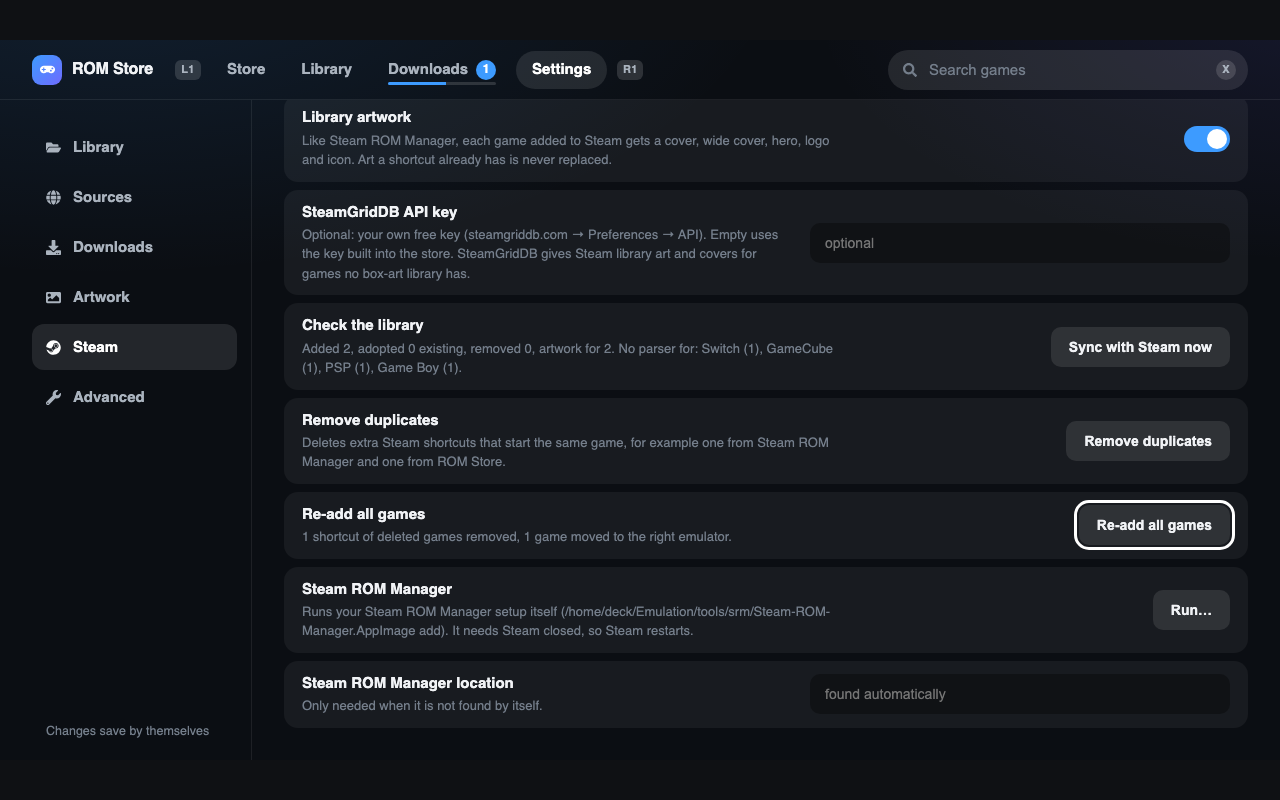
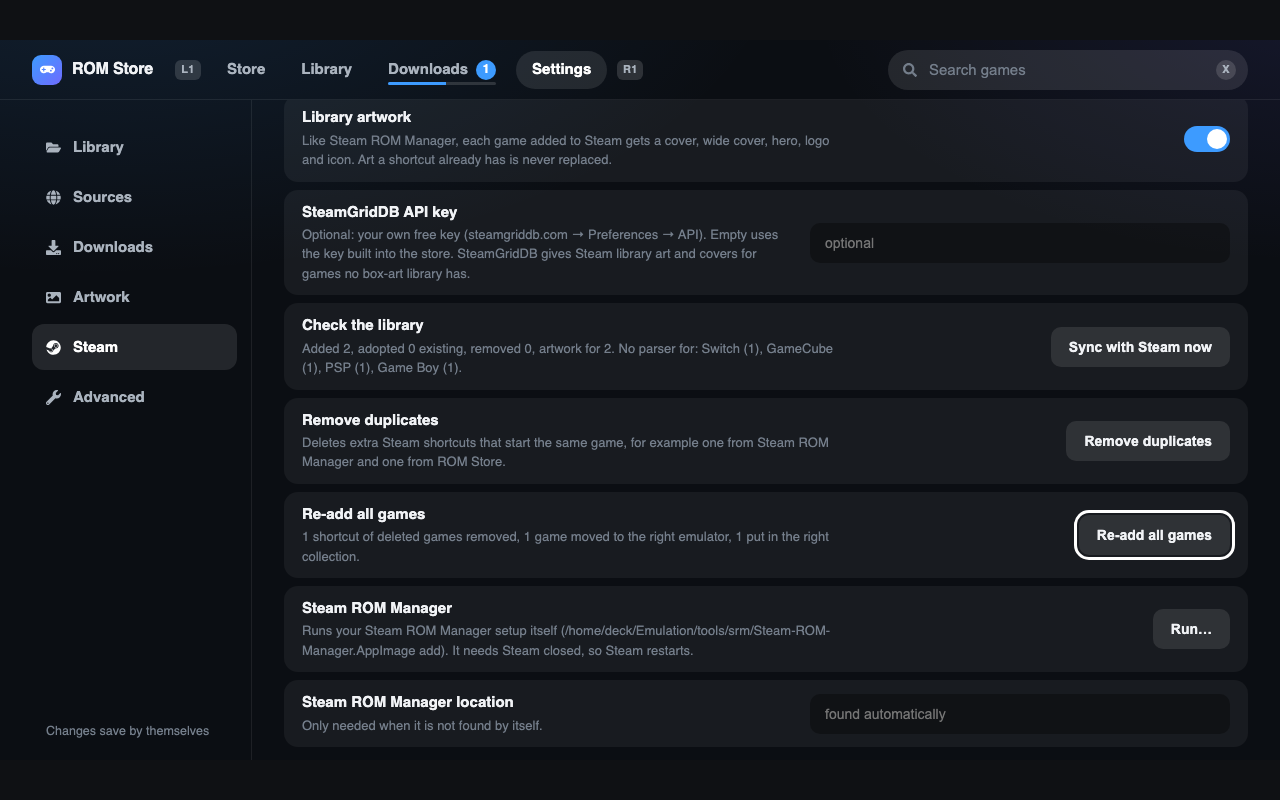
Steam: keep every managed game in its parser's collection (adopted, kept and moved ones too)

diff --git a/src/steam.ts b/src/steam.ts
@@ -36,6 +36,8 @@ export interface SyncResult {
   duplicates: number;
   /** Shortcuts of games no longer on disk that were deleted ("Re-add all"). */
   stale: string[];
+  /** Existing shortcuts moved into their parser's Steam collection. */
+  collections: string[];
   /** Games that got library artwork in this run. */
   artwork: string[];
   /** E.g. a SteamGridDB key that was turned down (IGDB art was used). */
@@ -157,23 +159,55 @@ function romPaths(s: ShortcutInfo, roots: string[]): string[] {
   return found;
 }
 
-/** Best effort: Steam's collection store is internal and changes between builds. */
-async function addToCollection(name: string, appid: number): Promise<void> {
+function collectionHas(collection: any, appid: number): boolean {
+  try {
+    if (typeof collection?.apps?.has === "function") return Boolean(collection.apps.has(appid));
+    const list = collection?.allApps ?? collection?.apps;
+    if (Array.isArray(list)) return list.some((app: any) => (app?.appid ?? app) === appid);
+  } catch {
+    /* unknown shape: treat as not in it */
+  }
+  return false;
+}
+
+/**
+ * Put a game in its parser's Steam collection and take it out of the other
+ * parsers' collections (`managed`: every collection SRM's parsers name), so a
+ * game moved to another emulator, or a shortcut adopted from SRM, ends up in
+ * the right one. Collections the user made are never touched. Best effort:
+ * Steam's collection store is internal and changes between builds.
+ * Returns true when something changed.
+ */
+async function placeInCollection(appid: number, target: string | null, managed: string[]): Promise<boolean> {
   try {
     const collections = store("collectionStore");
     const overview = store("appStore")?.GetAppOverviewByAppID(appid);
-    if (!collections || !overview) return;
-    const existing = (collections.userCollections ?? []).find((c: any) => c?.displayName === name);
-    if (existing) {
-      const editable = existing.AsDragDropCollection?.() ?? existing;
-      editable.AddApps?.([overview]);
+    if (!collections || !overview) return false;
+    let changed = false;
+    for (const collection of [...(collections.userCollections ?? [])]) {
+      const name = collection?.displayName;
+      if (!name || name === target || !managed.includes(name) || !collectionHas(collection, appid)) continue;
+      const editable = collection.AsDragDropCollection?.() ?? collection;
+      editable.RemoveApps?.([overview]);
       await editable.Save?.();
-    } else {
-      const created = collections.NewUnsavedCollection?.(name, undefined, [overview]);
-      await created?.Save?.();
+      changed = true;
     }
+    if (target) {
+      const existing = (collections.userCollections ?? []).find((c: any) => c?.displayName === target);
+      if (!existing) {
+        const created = collections.NewUnsavedCollection?.(target, undefined, [overview]);
+        await created?.Save?.();
+        changed = true;
+      } else if (!collectionHas(existing, appid)) {
+        const editable = existing.AsDragDropCollection?.() ?? existing;
+        editable.AddApps?.([overview]);
+        await editable.Save?.();
+        changed = true;
+      }
+    }
+    return changed;
   } catch {
-    /* the shortcut is there; the collection is a nicety */
+    return false; /* the shortcut is there; the collection is a nicety */
   }
 }
 
@@ -230,7 +264,7 @@ type Mode = "sync" | "dedupe" | "repair";
 
 async function run(paths: string[] | null, add: boolean, mode: Mode = "sync"): Promise<SyncResult> {
   const result: SyncResult = {
-    ok: true, added: [], adopted: [], removed: [], repointed: [], duplicates: 0, stale: [], artwork: [], missing: {},
+    ok: true, added: [], adopted: [], removed: [], repointed: [], duplicates: 0, stale: [], collections: [], artwork: [], missing: {},
   };
   if (!steam()?.Apps) return { ...result, ok: false, error: "Not running inside Steam" };
   const plan = await steamPlan(paths, add);
@@ -327,7 +361,6 @@ async function run(paths: string[] | null, add: boolean, mode: Mode = "sync"): P
       if (!appid) continue;
       reported[item.key] = { appid, name: item.name };
       (adopted ? result.adopted : result.added).push(item.name);
-      if (!adopted && plan.collections && item.collection) await addToCollection(item.collection, appid);
       if (plan.artwork && (await addArtwork(appid, item.name).catch(() => false))) result.artwork.push(item.name);
     } catch (error) {
       result.ok = false;
@@ -337,6 +370,18 @@ async function run(paths: string[] | null, add: boolean, mode: Mode = "sync"): P
 
   for (const item of bare) {
     if (await addArtwork(item.appid!, item.name).catch(() => false)) result.artwork.push(item.name);
+  }
+
+  // Every game the store manages sits in its parser's collection: new ones,
+  // adopted SRM shortcuts, kept duplicates and games moved to another emulator.
+  if (plan.collections) {
+    const managed = plan.managed_collections ?? [];
+    for (const item of plan.items) {
+      const appid = reported[item.key]?.appid ?? item.appid;
+      if (!appid || !exists(appid)) continue;
+      const fresh = result.added.includes(item.name);
+      if ((await placeInCollection(appid, item.collection, managed)) && !fresh) result.collections.push(item.name);
+    }
   }
 
   const removed: string[] = removedKeys;

diff --git a/src/components/SettingsView.tsx b/src/components/SettingsView.tsx
@@ -31,7 +31,7 @@ import { reloadStore } from "../state";
 import { Spinner, Switch } from "./ui";
 
 const failed = (error: unknown): SyncResult => ({
-  ok: false, added: [], adopted: [], removed: [], repointed: [], duplicates: 0, stale: [], artwork: [], missing: {},
+  ok: false, added: [], adopted: [], removed: [], repointed: [], duplicates: 0, stale: [], collections: [], artwork: [], missing: {},
   error: String(error),
 });
 
@@ -42,6 +42,7 @@ const SteamOutcome = ({ result }: { result: SyncResult }) => {
     result.duplicates ? `${result.duplicates} duplicate${result.duplicates === 1 ? "" : "s"} deleted` : "",
     result.stale.length ? `${result.stale.length} shortcut${result.stale.length === 1 ? "" : "s"} of deleted games removed` : "",
     result.repointed.length ? `${result.repointed.length} game${result.repointed.length === 1 ? "" : "s"} moved to the right emulator` : "",
+    result.collections.length ? `${result.collections.length} put in the right collection` : "",
     result.added.length ? `${result.added.length} added` : "",
     result.adopted.length ? `${result.adopted.length} existing adopted` : "",
     result.removed.length ? `${result.removed.length} removed` : "",
@@ -675,7 +676,7 @@ const SettingsView: FC<Props> = ({ onSaved, initialSection }) => {
               <span className={synced.ok ? undefined : "rs-bad"}>
                 {synced.error
                   ? synced.error
-                  : `Added ${synced.added.length}, adopted ${synced.adopted.length} existing, removed ${synced.removed.length}${synced.repointed.length ? `, moved ${synced.repointed.length} to another emulator` : ""}, artwork for ${synced.artwork.length}.`}
+                  : `Added ${synced.added.length}, adopted ${synced.adopted.length} existing, removed ${synced.removed.length}${synced.repointed.length ? `, moved ${synced.repointed.length} to another emulator` : ""}${synced.collections.length ? `, ${synced.collections.length} put in the right collection` : ""}, artwork for ${synced.artwork.length}.`}
                 {synced.warning ? ` ${synced.warning} (check the key; IGDB art was used).` : ""}
                 {Object.keys(synced.missing).length
                   ? ` No parser for: ${Object.entries(synced.missing)

diff --git a/tools/preview/preview.tsx b/tools/preview/preview.tsx
@@ -142,6 +142,28 @@ if (!(window as any).SteamClient) {
     },
   };
   (window as any).steamMockShortcuts = shortcuts;
+  // Steam's collection store: user collections with AddApps / RemoveApps / Save.
+  const collections: any[] = [];
+  const makeCollection = (name: string, apps: any[] = []) => {
+    const c: any = {
+      displayName: name,
+      apps: new Set(apps.map((a) => a.appid)),
+      AsDragDropCollection: () => c,
+      AddApps: (list: any[]) => list.forEach((o) => c.apps.add(o.appid)),
+      RemoveApps: (list: any[]) => list.forEach((o) => c.apps.delete(o.appid)),
+      Save: async () => {
+        if (!collections.includes(c)) collections.push(c);
+      },
+    };
+    return c;
+  };
+  (window as any).collectionStore = {
+    get userCollections() {
+      return collections;
+    },
+    NewUnsavedCollection: (name: string, _filter: unknown, apps: any[]) => makeCollection(name, apps ?? []),
+  };
+  (window as any).steamMockCollections = collections;
 }
 
 // ?plugin: also run the plugin entry (src/index.tsx), so its listeners are

diff --git a/tools/preview/mock-api.ts b/tools/preview/mock-api.ts
@@ -513,7 +513,7 @@ const handlers: Record<string, (...args: any[]) => any> = {
       .map(([key, info]) => ({ key, appid: info.appid, name: info.name }));
     return {
       srm: "/home/deck/.config/steam-rom-manager/userData", parsers: 2, enabled: true, collections: true, artwork: true,
-      roots: ["/home/deck/EmuDecky/roms"], items, remove, missing,
+      roots: ["/home/deck/EmuDecky/roms"], managed_collections: ["N64", "PS1", "PS1 - RetroArch"], items, remove, missing,
     };
   },
   // A 1x1 PNG per slot stands in for real art.

diff --git a/src/types.ts b/src/types.ts
@@ -335,6 +335,8 @@ export interface SteamPlan {
   artwork: boolean;
   /** The ROM library folder, as configured and with symlinks resolved. */
   roots?: string[];
+  /** Every collection SRM's parsers name: the ones a game may be moved out of. */
+  managed_collections?: string[];
   items: SteamPlanItem[];
   remove: { key: string; appid: number; name: string }[];
   /** Consoles with games but no enabled Steam ROM Manager parser. */

diff --git a/backend/steam.py b/backend/steam.py
@@ -67,10 +67,16 @@ def _real(path: str) -> str:
 class SrmConfig:
     """The enabled glob parsers of a Steam ROM Manager setup."""
 
-    def __init__(self, folder: Optional[str], parsers: List[Dict[str, Any]], variables: Dict[str, str]):
+    def __init__(self, folder: Optional[str], parsers: List[Dict[str, Any]], variables: Dict[str, str],
+                 categories: Optional[List[str]] = None):
         self.folder = folder
         self.parsers = parsers
         self.variables = variables
+        # Every fixed Steam collection any parser names, switched off ones
+        # included: the collections a game may be moved out of (an emulator
+        # change moves a Switch game from "… - Eden" to "… - Ryujinx"). A
+        # collection the user made is never one of them.
+        self.categories = categories or []
 
     @classmethod
     def load(cls, home: Optional[str] = None) -> "SrmConfig":
@@ -86,12 +92,17 @@ class SrmConfig:
             except (OSError, ValueError):
                 continue
             variables = cls._globals(folder)
+            configs = configs if isinstance(configs, list) else []
             parsers = [
                 p for p in configs if isinstance(p, dict)
                 and not p.get("disabled")
                 and str(p.get("parserType", "")).lower().startswith("glob")
-            ] if isinstance(configs, list) else []
-            return cls(folder, parsers, variables)
+            ]
+            categories = sorted({
+                c for p in configs if isinstance(p, dict)
+                for c in (p.get("steamCategories") or []) if isinstance(c, str) and c and "${" not in c
+            })
+            return cls(folder, parsers, variables, categories)
         return cls(None, [], {})
 
     @staticmethod
@@ -322,6 +333,7 @@ def plan(roms_root: str, tracked: Dict[str, Dict[str, Any]], only: Optional[List
         "srm": config.folder,
         "parsers": len(config.parsers),
         "roots": list(dict.fromkeys(roots)),
+        "managed_collections": config.categories,
         "items": items,
         "remove": remove,
         "missing": missing,

diff --git a/AGENTS.md b/AGENTS.md
@@ -481,6 +481,14 @@ Steam only reads at start), so the plugin does its job live:
   (`{ console, emulator }`) on `window`; `index.tsx` listens and syncs. Both
   plugins live in Steam's page, so neither needs the other installed. Keep
   the event name in step with Emu Hub's `src/choice.ts`.
+- Collections: every sync puts each game it manages (new, adopted from SRM,
+  kept by "Remove duplicates", moved to another emulator) into its parser's
+  collection and takes it out of the other parsers' collections
+  (`managed_collections` in the plan: every fixed `steamCategories` name in
+  SRM's config, switched-off parsers included). A collection the user made
+  is never touched. EmuDeck names Switch collections per emulator
+  ("Nintendo Switch - Eden" / "- Ryujinx"), so an emulator change moves the
+  game.
 - Settings → Steam has two clean-ups, each asking first:
   "Remove duplicates" keeps one shortcut per game (most played, else the
   plugin's own, else the oldest) and deletes the others, SRM's included;
